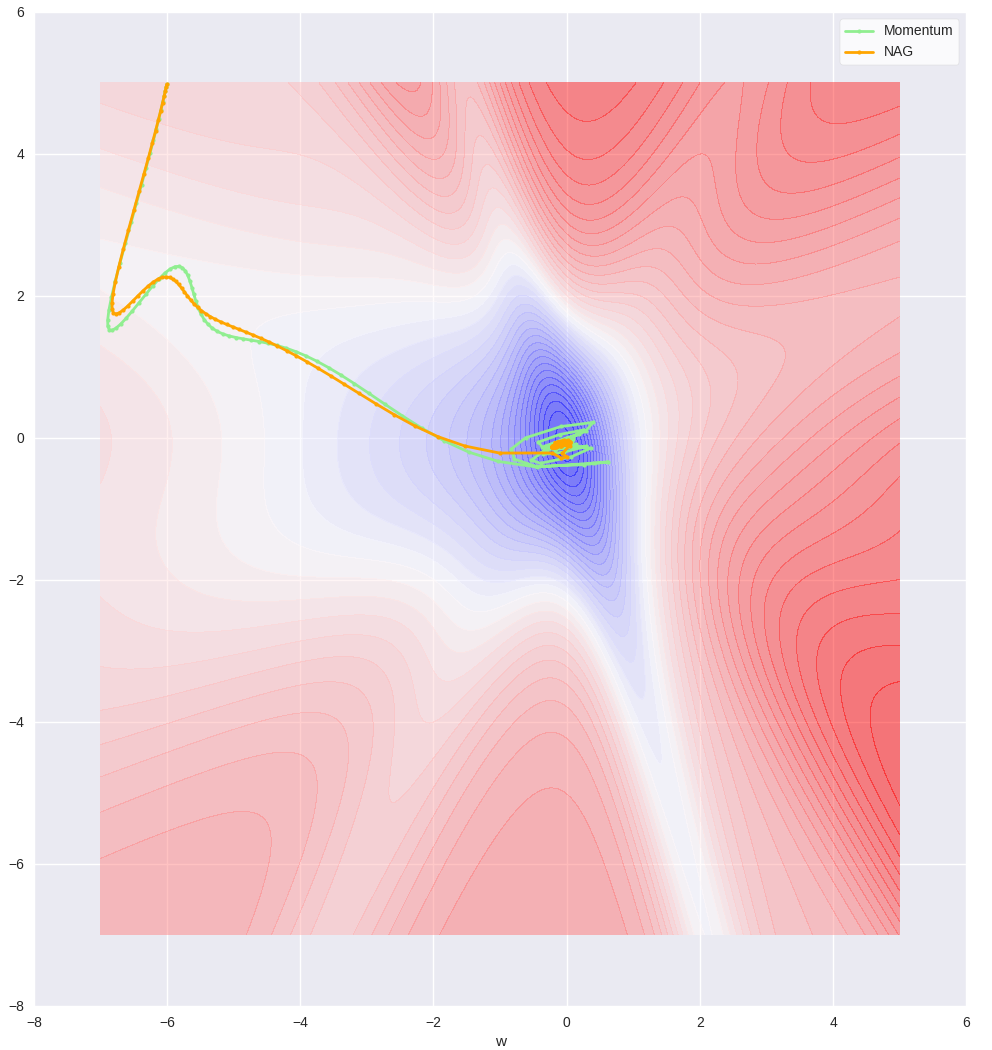
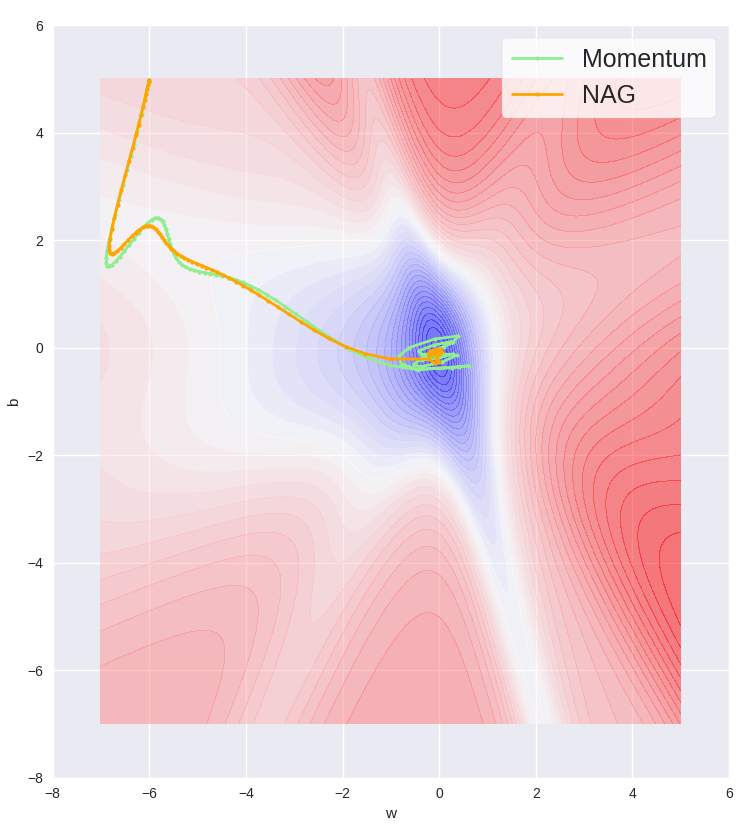
update font size

diff --git a/toy_example/visualize.py b/toy_example/visualize.py
@@ -57,7 +57,7 @@ def visualize_3d(neuron_class1, neuron_class2, fig):
                        np.asarray(neuron_class2.bias_h[:i + 1]),
                        np.asarray(neuron_class2.error_h[:i + 1]), color='orange', marker='o', linewidth=2, markersize=3, label="NAG"
                        )
-    ax1.legend(facecolor='white', frameon=True)
+    ax1.legend(facecolor='white', frameon=True, prop={'size': 18})
     title = fig.suptitle('Epoch 0')
     return line11, line12, title
 
@@ -123,7 +123,7 @@ def visualize_2d(neuron_class1, neuron_class2, fig):
         neuron_class2.bias_h[:i + 1],
         color='orange', marker='o', linewidth=2, markersize=3, label="NAG"
     )
-    ax2.legend(facecolor='white', frameon=True)
+    ax2.legend(facecolor='white', frameon=True, prop={'size': 18})
     return line21, line22, title
 
 
@@ -151,7 +151,7 @@ def toy_example(epochs_, gamma_, eta_):
     plt.plot(momentum.error_h, 'r')
     plt.plot(momentum.weight_h, 'b')
     plt.plot(momentum.bias_h, 'g')
-    plt.legend(["Error", "Weight", "Bias"], frameon=True)
+    plt.legend(["Error", "Weight", "Bias"], frameon=True, prop={'size': 18})
     # w_diff = [t - s for t, s in zip(sn.w_h, sn.w_h[1:])]
     # b_diff = [t - s for t, s in zip(sn.b_h, sn.b_h[1:])]
     # plt.plot(w_diff, 'b--')
@@ -165,7 +165,7 @@ def toy_example(epochs_, gamma_, eta_):
     plt.plot(nag.error_h, 'r')
     plt.plot(nag.weight_h, 'b')
     plt.plot(nag.bias_h, 'g')
-    plt.legend(["Error", "Weight", "Bias"], frameon=True)
+    plt.legend(["Error", "Weight", "Bias"], frameon=True, prop={'size': 18})
     # w_diff = [t - s for t, s in zip(sn.w_h, sn.w_h[1:])]
     # b_diff = [t - s for t, s in zip(sn.b_h, sn.b_h[1:])]
     # plt.plot(w_diff, 'b--')

diff --git a/nn_example/visualize.py b/nn_example/visualize.py
@@ -24,10 +24,10 @@ def visualize_nn(W1, W2, X_train, y_OH_train, epochs, gamma, eta):
              markersize=5, label='SGD - loss')
     plt.plot(model_moment.loss.values(), '-x',
              markersize=5, label='Momentum - loss')
-    plt.legend()
     plt.plot(model_nag.loss.values(), '-o',
              markersize=5, label='NAG - loss')
     plt.legend()
+    plt.title("Comparing Loss of 3 method SGD, Momentum and NAG")
     plt.xlabel('Epochs')
     plt.ylabel('Loss values')
     plt.show()
@@ -38,9 +38,9 @@ def visualize_nn(W1, W2, X_train, y_OH_train, epochs, gamma, eta):
              markersize=5, label='SGD - acc')
     plt.plot(model_moment.acc.values(), '-x',
              markersize=5, label='Momentum - acc')
-    plt.legend()
     plt.plot(model_nag.acc.values(), '-o',
              markersize=5, label='NAG - acc')
+    plt.title("Comparing Accuracy of 3 method SGD, Momentum and NAG")
     plt.legend()
     plt.xlabel('Epochs')
     plt.ylabel('Accuracy')

diff --git a/README.md b/README.md
@@ -11,7 +11,7 @@
 #### Step 3:  Run visualization with Toy data example
 
 ```shellscript
-python -m toy_example --epochs=<number of epochs> --gamma=<value of gamma> --eta=<value of eta>
+python -m toy_example --epochs=100 --gamma=0.9 --eta=1
 ```
 **Parameters**
 -  ```epochs``` is parameters of Number of Epochs
@@ -26,7 +26,7 @@ Plots includes:
 #### Step 4:  Run visualization with Neuron network example
 
 ```shellscript
-python -m nn_example --epochs=<number of epochs> --gamma=<value of gamma> --eta=<value of eta>
+python -m nn_example --epochs=40 --gamma=0.9 --eta=1
 ```
 **Parameters**
 -  ```epochs``` is parameters of Number of Epochs
